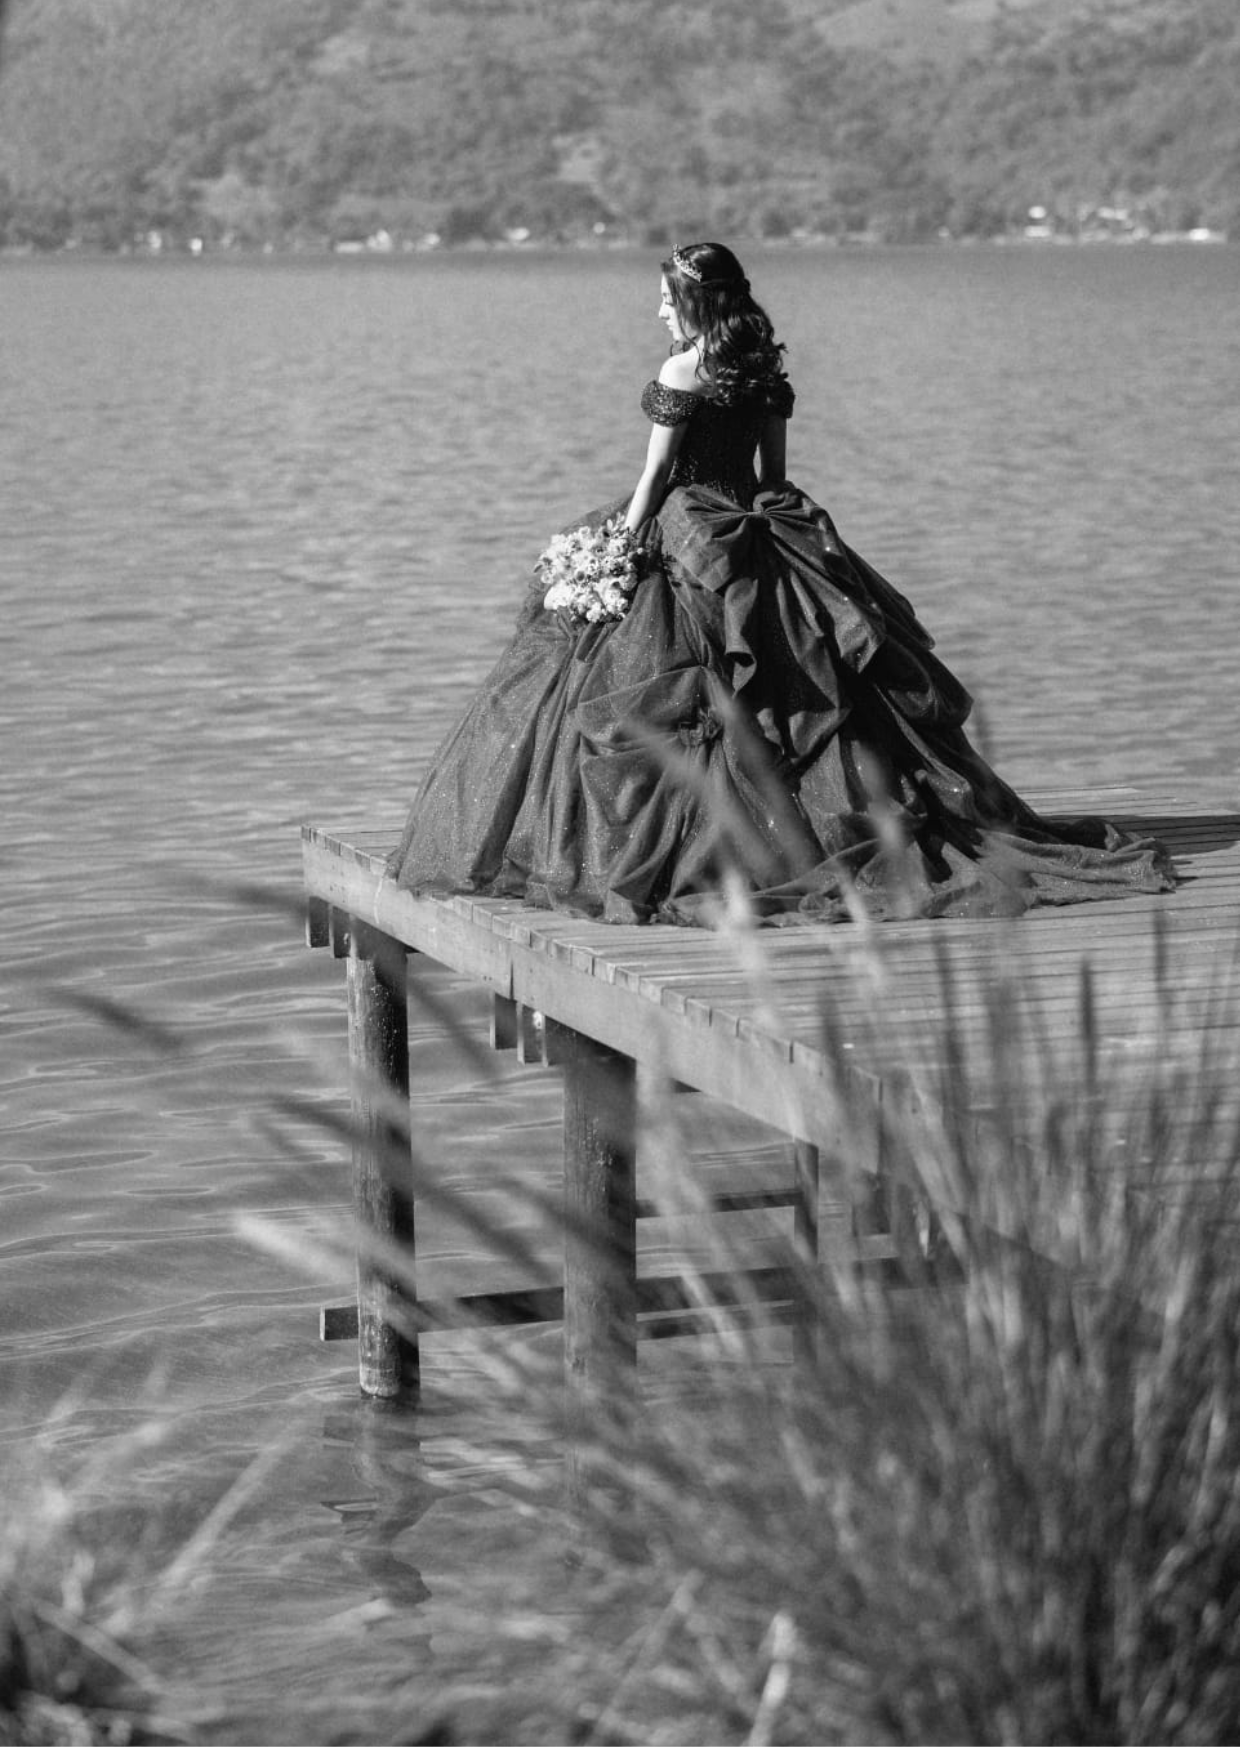
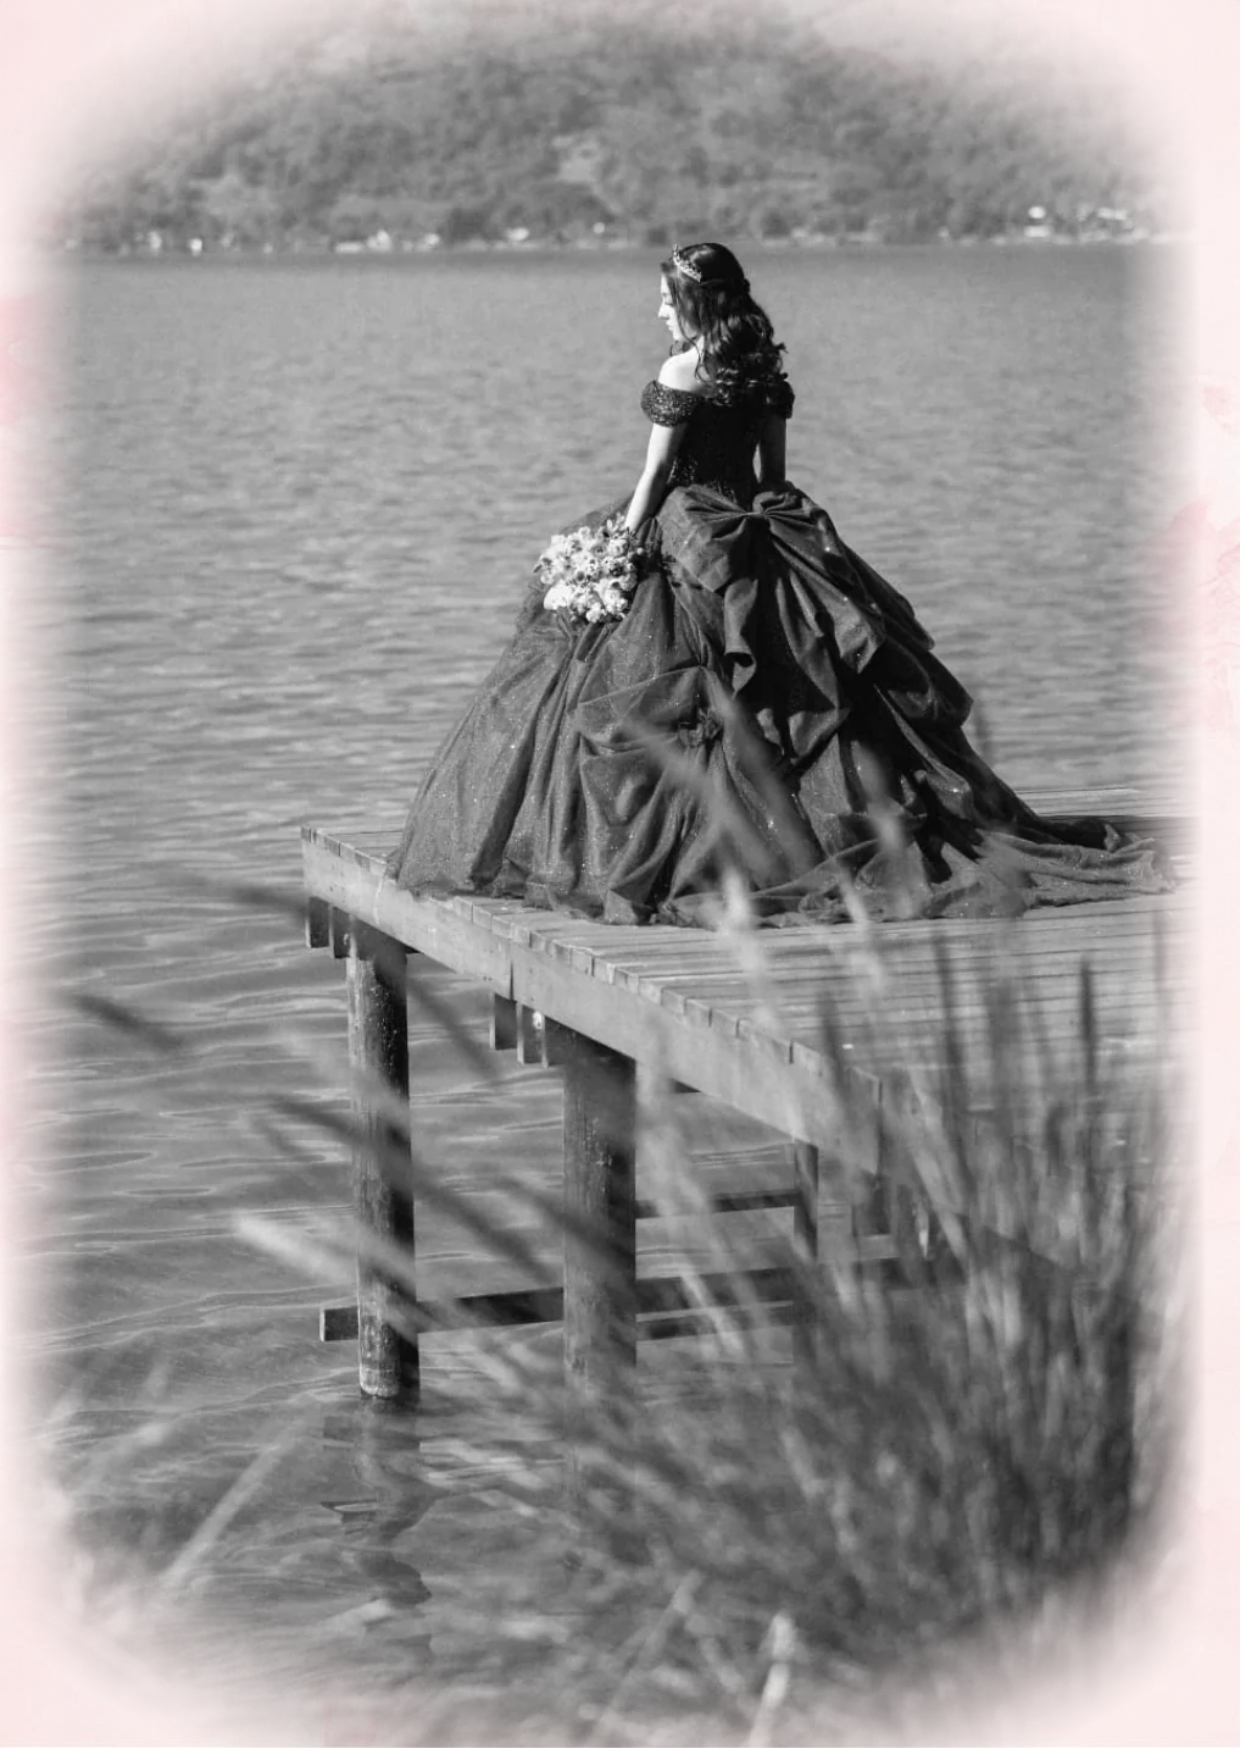
arreglos en las fotos de fondo

Changed region(s): [[0.0, 0.0, 1.0, 1.0]]

diff --git a/css/styles.css b/css/styles.css
@@ -317,17 +317,22 @@ html, body {
 /* Logo.png (XV, "Años" and "Mariana Claro") shares FondoInicio.png's
    1240:1748 canvas, so with the same object-fit: cover it scales and crops
    exactly like the photo. Its artwork is drawn at ~25-46% of the height;
-   the shift moves it down over the skirt (~61-83%), as in the reference
+   the shift moves it down over the skirt (~55-76%), as in the reference
    design. */
-.layer--logo { transform: translateY(36.6%); }
+.layer--logo { transform: translateY(29.9%); }
 
-/* "Siguiente" right under the logo's "Mariana Claro" (which ends at ~83%
-   of the photo), instead of on the bright grass at the very bottom. A %
-   of the card height keeps it in the same place on the photo on phones
-   and desktop alike. */
+/* In the reference design the corner flowers sit exactly where
+   EsquinasFlorales2.png draws them (~69-93%), framing "Mariana Claro",
+   so skip the generic nudge down used on the other screens. */
+#presentacion .layer--flowers { transform: none; }
+
+/* "Siguiente" right under the logo's "Mariana Claro" (which ends at ~76%
+   of the photo), in the gap between the two flower corners. A % of the
+   card height keeps it in the same place on the photo on phones and
+   desktop alike. */
 .content--presentacion .next-link {
   position: absolute;
-  top: 84.5%;
+  top: 79%;
   left: 50%;
   transform: translateX(-50%);
   font-size: 5.6cqw;

diff --git a/index.html b/index.html
@@ -31,6 +31,7 @@
     <section class="screen" id="presentacion" data-screen="presentacion" aria-label="Presentación">
       <img class="layer" src="assets/FondoInicio.png" alt="Fotografía de Mariana">
       <img class="layer layer--logo" src="assets/Logo.png" alt="XV Años · Mariana Claro">
+      <img class="layer layer--flowers" src="assets/EsquinasFlorales2.png" alt="" aria-hidden="true">
       <button class="back-chevron" data-nav="cover" type="button" aria-label="Volver a portada">‹</button>
       <div class="content content--presentacion">
         <button class="next-link" data-nav="mensaje" type="button">Siguiente</button>
